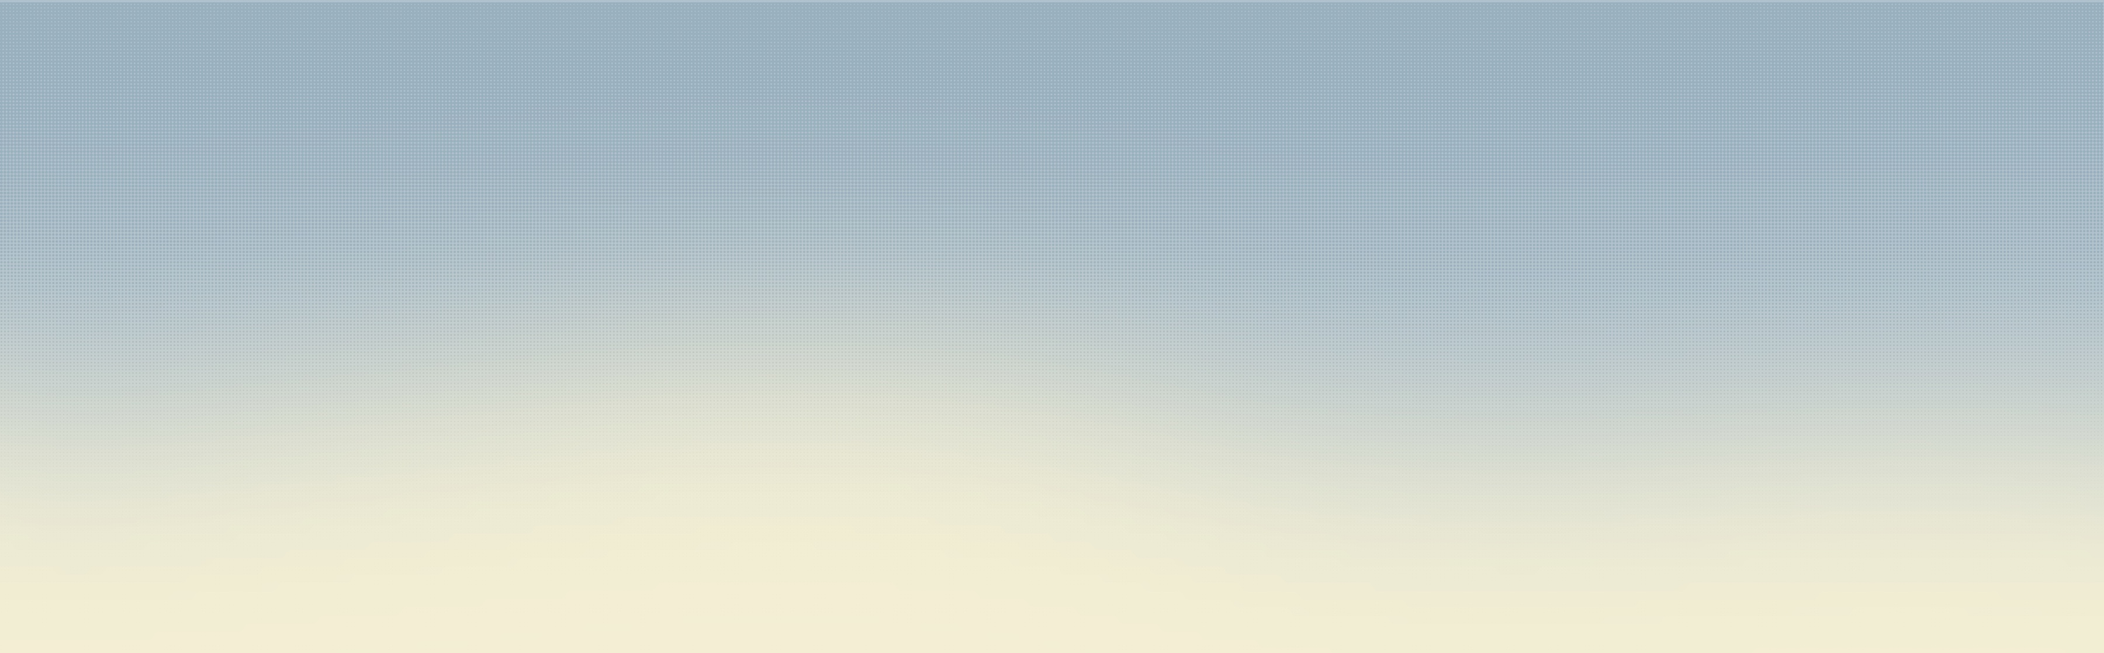
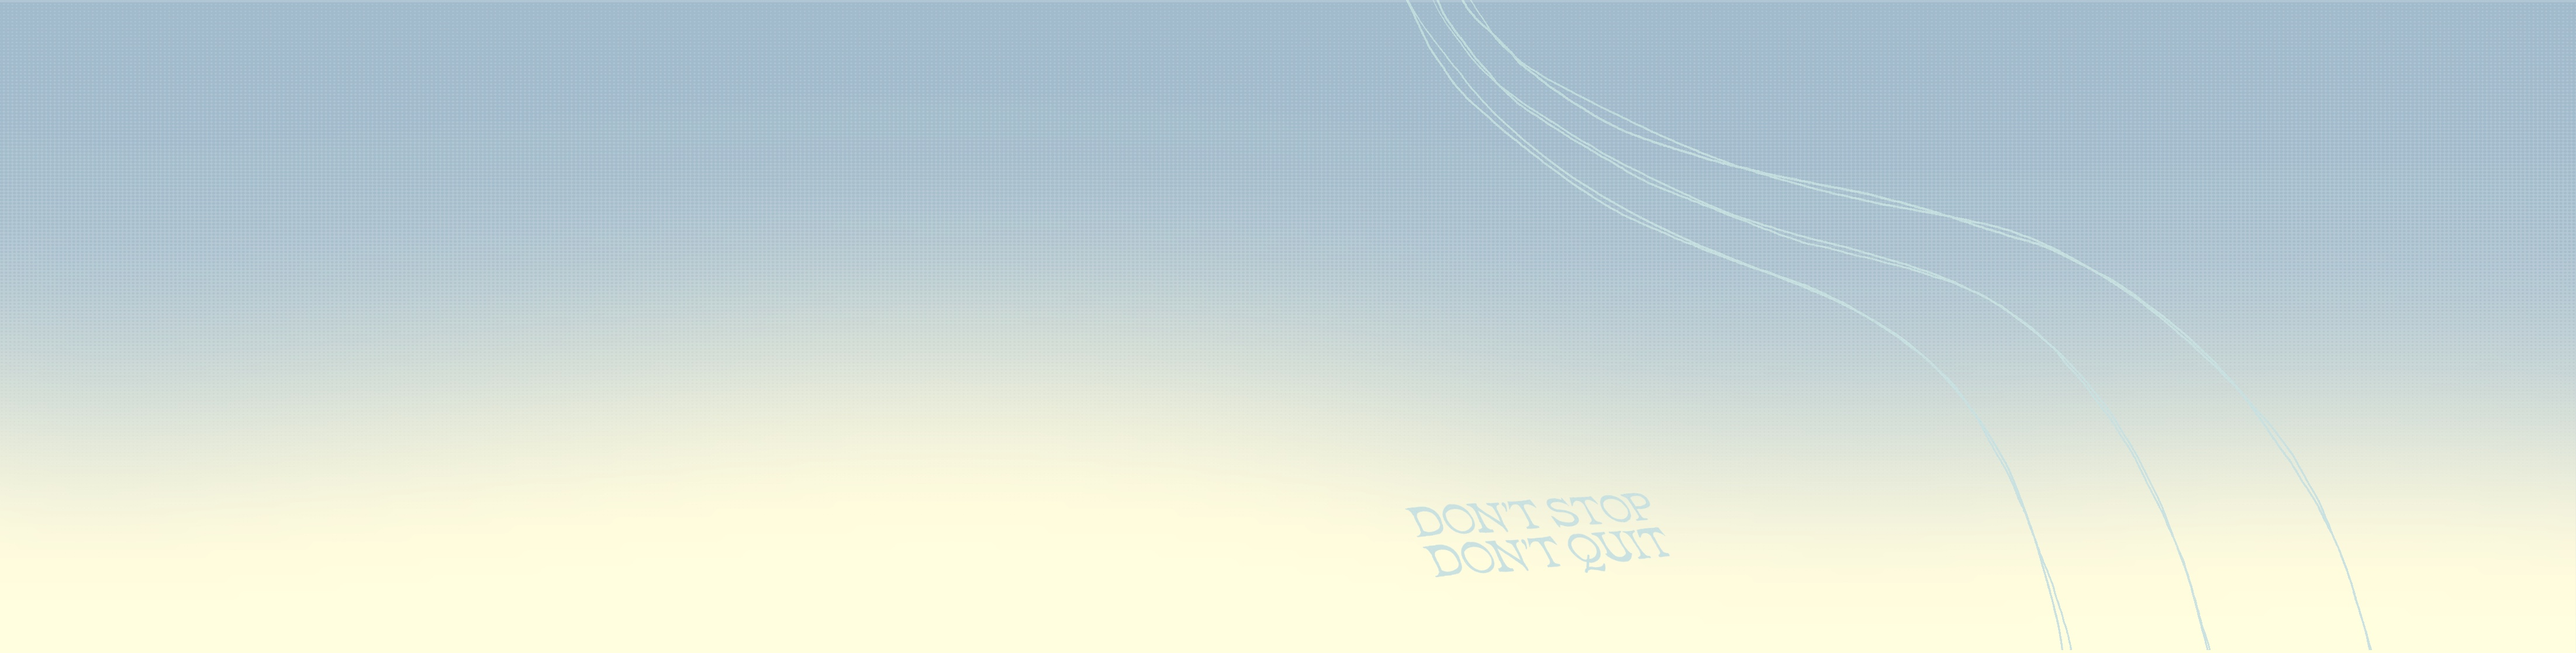
west savannah

diff --git a/westsavannah.html b/westsavannah.html
@@ -17,14 +17,14 @@
                 background-image:url(img/westsavannah/westsavannahbg.jpg) ;
                 background-position: left top;
                 background-repeat: no-repeat;
-                background-size:cover; 
+                background-size:contain; 
                 z-index: -1; 
             }
-            h1{
-                color:#6e710c;
+            .title{
+                height: 15vh;
                 position: relative;
-                left:55vw;
-                top:14vh;
+                left:60vw;
+                top:20vh;
             }
             #five img{
                 height: 80vh;
@@ -96,7 +96,7 @@
                 </div>
             </div>
         </li>
-        <div class="scrolling-bg"><h1>West Savannah</h1></div>
+        <div class="scrolling-bg"><img class="title" src="img/westsavannah/westsavannahtitle.png"></div>
         <div class="lyrics">
             <section id="one">
                 <img src="img/westsavannah/westsavannah1.png">
